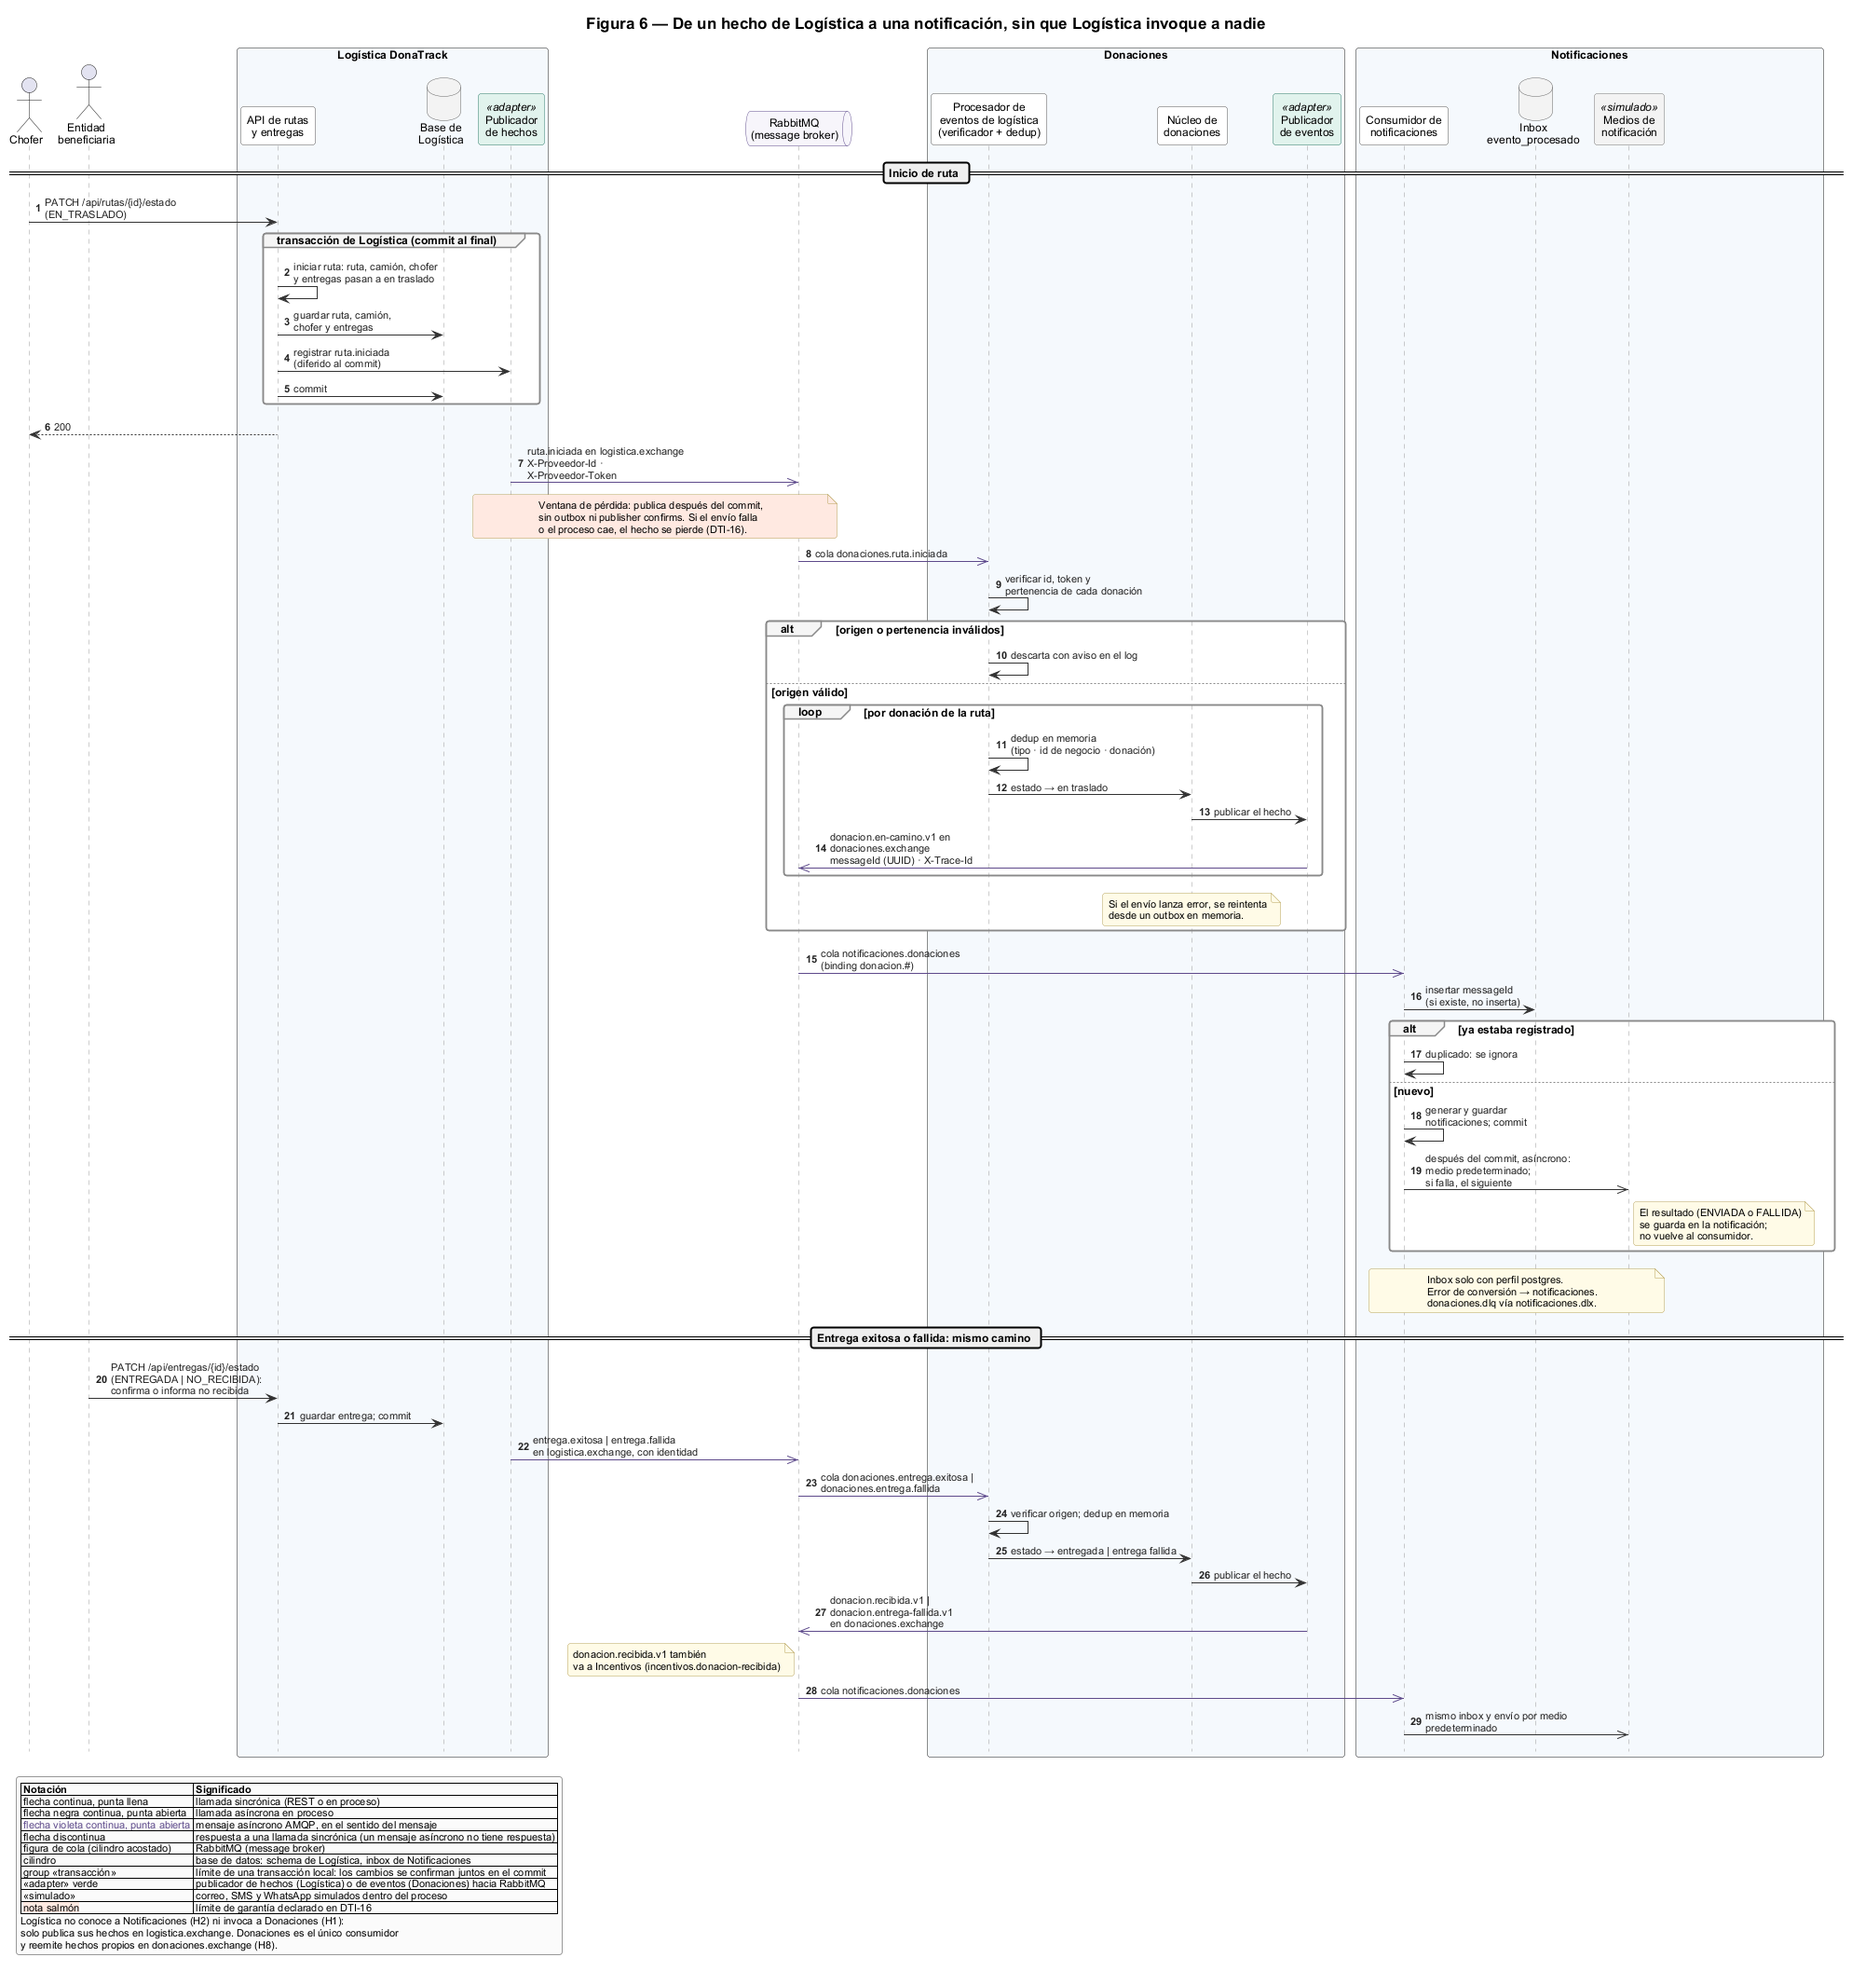
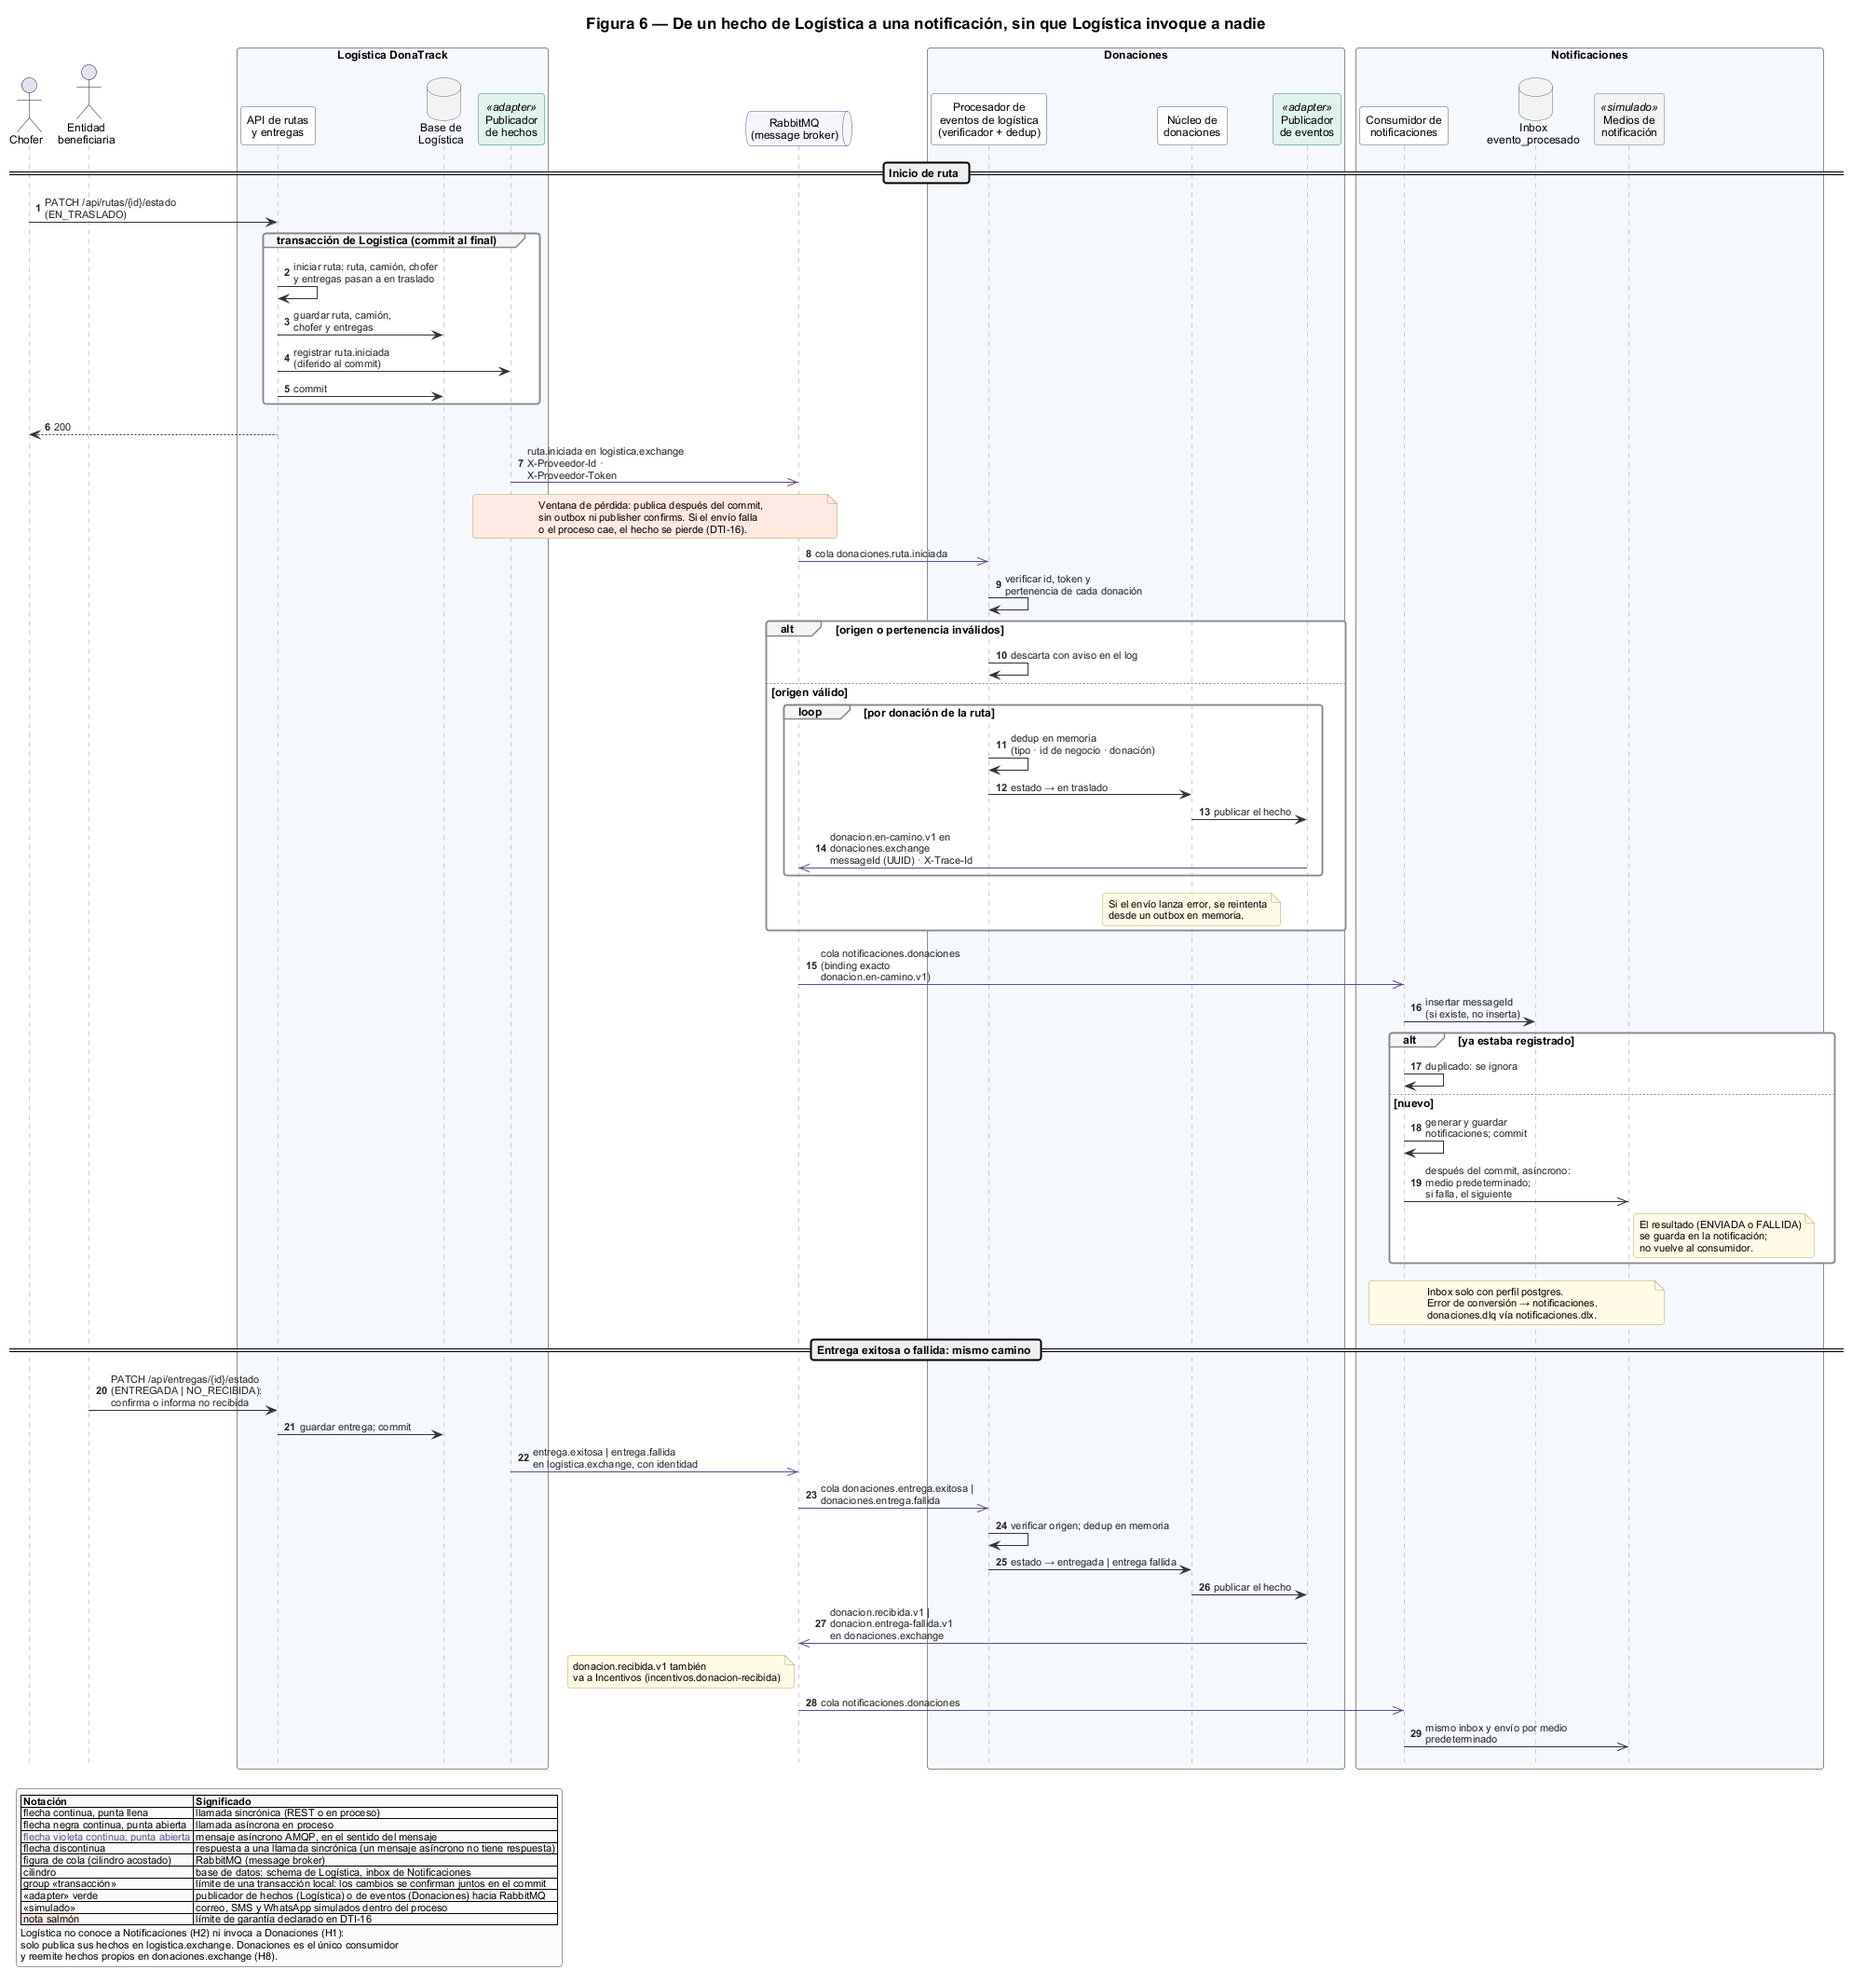
E4: credenciales de MinIO y RabbitMQ a .env, sin || true en preprod-stay y diagramas con bindings exactos
- Compose (base, preprod y demo): RABBITMQ_PASS, MINIO_ROOT_USER y MINIO_ROOT_PASSWORD
  con ${VAR:?ver .env.example}; los 4 servicios y logistica-externo reciben RABBITMQ_PASS.
- application.properties sin contraseña por defecto para Rabbit ni access/secret key de MinIO.
- .env.example y scripts/generar-env-db.sh definen las variables nuevas.
- run-preprod-tests-stay.sh: sin || true (ADR 20260903); warn y propagación del exit de
  diagnóstico si la suite pasó, como run-preprod-tests.sh.
- Diagramas 03, 06, rabbit-01/02, rabbit/README y SPEC-03: las 7 claves exactas de
  ROUTING_KEYS_DONACIONES_CONSUMIDAS en lugar de donacion.#/donante.#/persona.#; PNG re-renderizados.
- Readme y persistencia/README: variables nuevas.

diff --git a/persistencia/README.md b/persistencia/README.md
@@ -34,7 +34,7 @@ Todos los roles se crean idempotentemente y sin contraseña en [`01-init-schemas
 | `logistica_user`      | `LOGISTICA_DB_PASSWORD`         | `logistica`      | **Activo** — JPA conectado |
 | `incentivos_user`     | `INCENTIVOS_DB_PASSWORD`        | `incentivos`     | **Activo** — JPA conectado |
 
-Antes del primer `docker compose up`: `cp .env.example .env` (valores de desarrollo) o `scripts/generar-env-db.sh` (valores aleatorios; es lo que usan `run-preprod-tests*.sh` y CI). Sin `.env`, compose falla con `ver .env.example`. El init-db corre solo en el primer arranque: para cambiar una contraseña hay que recrear el volumen (`docker compose down -v`). Los services reciben la misma variable como `SPRING_DATASOURCE_PASSWORD`, sin valor por defecto en `application-postgres.properties`.
+Antes del primer `docker compose up`: `cp .env.example .env` (valores de desarrollo) o `scripts/generar-env-db.sh` (valores aleatorios; es lo que usan `run-preprod-tests*.sh` y CI). Sin `.env`, compose falla con `ver .env.example`. El init-db corre solo en el primer arranque: para cambiar una contraseña hay que recrear el volumen (`docker compose down -v`). Los services reciben la misma variable como `SPRING_DATASOURCE_PASSWORD`, sin valor por defecto en `application-postgres.properties`. Con el mismo patrón, `.env` define `RABBITMQ_PASS` (broker y los 4 services; el usuario `donatrack` es fijo) y `MINIO_ROOT_USER`/`MINIO_ROOT_PASSWORD` (MinIO y la access/secret key de incentivos); `application.properties` no les da valor por defecto.
 
 ### Política de permisos (aislamiento cruzado)
 
@@ -171,7 +171,7 @@ Parámetros de conexión:
 | Acceso       | URL                     | Credenciales                        |
 |--------------|-------------------------|-------------------------------------|
 | API S3       | `http://localhost:9000` | —                                   |
-| Console (UI) | `http://localhost:9001` | `minioadmin` / `minioadminpassword` |
+| Console (UI) | `http://localhost:9001` | `MINIO_ROOT_USER` / `MINIO_ROOT_PASSWORD` de `.env` |
 
 ```yaml
 minio:

diff --git a/docs/specs/active/SPEC-03-topologia-amqp-y-desacoplamiento-notificaciones.md b/docs/specs/active/SPEC-03-topologia-amqp-y-desacoplamiento-notificaciones.md
@@ -84,7 +84,7 @@ Escenario: Publicación asíncrona de evento de donación asignada
 
 Escenario: Ruteo y consumo en cola segregada notificaciones.donaciones
   Dado un mensaje publicado en "donaciones.exchange" con routing key "donacion.en-camino.v1"
-  Cuando RabbitMQ procesa el mensaje a través del binding "donacion.*.v1" (o "donacion.#")
+  Cuando RabbitMQ procesa el mensaje a través del binding exacto "donacion.en-camino.v1" (una clave por handler, RabbitMQConfig.ROUTING_KEYS_DONACIONES_CONSUMIDAS)
   Entonces el mensaje es entregado en la cola "notificaciones.donaciones"
   Y DonacionesEventListener deserializa el mensaje directamente en un record EventoDonacionEnCaminoV1
   Y el listener delega a NotificacionService para su registro e inserción atómica en Inbox.
@@ -173,7 +173,7 @@ flowchart TD
         DLQ_DON["notificaciones.donaciones.dlq\n(Queue)"]
         DLQ_INC["notificaciones.incentivos.dlq\n(Queue)"]
 
-        D_EX -->|Binding: donacion.#\ndonante.#\npersona.#| Q_DON
+        D_EX -->|Bindings exactos:\ndonacion.asignada.v1\ndonacion.en-camino.v1\ndonacion.recibida.v1\ndonacion.entrega-fallida.v1\ndonacion.vencida.v1\ndonante.registrado.v1\npersona.sincronizada.v1| Q_DON
         I_EX -->|Binding: incentivo.#| Q_INC
         Q_DON -.->|Fallo terminal| DLX
         Q_INC -.->|Fallo terminal| DLX
@@ -203,7 +203,7 @@ flowchart TD
 * **`RabbitMQConfig.java`:**
   * Define las colas `notificaciones.donaciones` y `notificaciones.incentivos` configurando el argumento `x-dead-letter-exchange = notificaciones.dlx`.
   * Declara `TopicExchange notificaciones.dlx` y las colas `notificaciones.donaciones.dlq` y `notificaciones.incentivos.dlq`.
-  * Declara externamente `donaciones.exchange` e `incentivos.exchange` junto con sus respectivos `Binding` (rutas `*.v1`).
+  * Declara externamente `donaciones.exchange` e `incentivos.exchange` junto con sus respectivos `Binding`: hacia `notificaciones.donaciones`, una clave exacta por handler (`ROUTING_KEYS_DONACIONES_CONSUMIDAS`, 7 claves `.v1`).
   * Configura el bean `MessageConverter`:
     ```java
     @Bean

diff --git a/Readme.md b/Readme.md
@@ -127,10 +127,10 @@ mvn clean package -DskipTests
 ### 2. Despliegue del Entorno Local con Docker Compose
 Para levantar manualmente el ecosistema virtualizado completo de microservicios y la plataforma n8n en segundo plano:
 ```bash
-cp .env.example .env   # credenciales de Postgres; o scripts/generar-env-db.sh para valores aleatorios
+cp .env.example .env   # credenciales de Postgres, RabbitMQ y MinIO; o scripts/generar-env-db.sh para valores aleatorios
 docker compose -f docker-compose.preprod.yml up --build -d
 ```
-*Las contraseñas de Postgres no están versionadas: compose las toma de `.env` (ver [`persistencia/README.md`](persistencia/README.md)).*
+*Las contraseñas de Postgres, RabbitMQ y MinIO no están versionadas: compose las toma de `.env` (ver [`persistencia/README.md`](persistencia/README.md)). Un `.env` anterior que no tenga `RABBITMQ_PASS` o `MINIO_ROOT_*` hace fallar a compose: completarlo desde `.env.example`, o borrarlo y regenerarlo. Fuera de compose (`mvn spring-boot:run` contra un broker propio), exportar `RABBITMQ_PASS`: `application.properties` no trae contraseña por defecto.*
 *Los contenedores utilizan healthchecks basados en Actuator (/actuator/health) para asegurar una secuencia de arranque ordenada y segura.*
 
 ### 3. Suite de Validacion y Pruebas de Integracion Automatizadas

diff --git a/docs/entrega-4/arquitectura/diagramas/rabbit/README.md b/docs/entrega-4/arquitectura/diagramas/rabbit/README.md
@@ -20,8 +20,8 @@ Notación común:
 
 ![Hechos de Donaciones en donaciones.exchange](rabbit-01-hechos-donaciones.png)
 
-- Notificaciones liga una sola cola con tres comodines; Incentivos liga una cola por cada clave que usa.
-- Notificaciones no procesa `donacion.segmentada.v1` ni `donante.dado-de-baja.v1`, pero los recibe por comodín: terminan en la DLQ (inferido, sin ejecución).
+- Notificaciones liga una sola cola con 7 claves exactas, una por handler (`RabbitMQConfig.ROUTING_KEYS_DONACIONES_CONSUMIDAS`); Incentivos liga una cola por cada clave que usa.
+- `donacion.segmentada.v1` y `donante.dado-de-baja.v1` no se ligan a la cola de Notificaciones, que no los procesa.
 
 ## rabbit-02 — Comando de entrega
 
